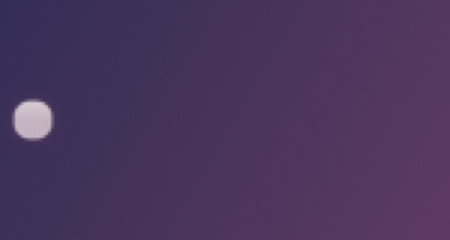
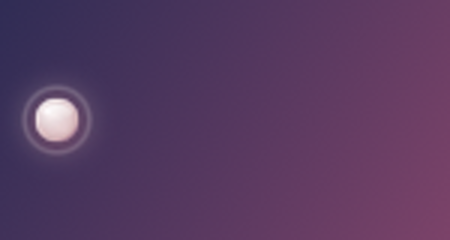
README shows the pearl, ripple and all

Changed region(s): [[0.7778, 0.3208, 1.0, 1.0], [0.0, 0.35, 0.2178, 0.6708]]

diff --git a/README.md b/README.md
@@ -13,7 +13,7 @@ it works everywhere and it doesn't send your voice anywhere. The
 listening and the typing both happen on your own Mac.
 
 <p align="center">
-  <img src="screenshots/recording-dot.png" width="300" alt="The pink glass dot that shows on the left edge of the screen while you're talking">
+  <img src="screenshots/recording-dot.png" width="300" alt="The glass pearl that pulses on the left edge of the screen while you're talking">
 </p>
 
 <p align="center">
@@ -29,7 +29,7 @@ listening and the typing both happen on your own Mac.
 | 🎙 **Hold to talk** | Hold your key (Right Option to start with, and you can change it), talk, let go. |
 | ✍ **Types it for you** | Pastes the words where your cursor is, and keeps a copy on the clipboard too. |
 | 🔒 **Stays on your Mac** | No accounts, no cloud, no subscription. Your voice never leaves the computer. |
-| 👀 **Shows it's listening** | A small pink glass dot on the left edge of the screen pulses while it's recording, so you're never guessing. |
+| 👀 **Shows it's listening** | A little glass pearl on the left edge of the screen breathes and sends out soft ripples while it's recording, so you're never guessing. |
 | 🕘 **Remembers the last 5** | Click the rose dot in the menu bar to copy any of your last 5 recordings again. |
 | ⬇ **Sets itself up** | Downloads the speech model the first time it opens. |
 | 🚀 **Opens with your Mac** | If you want it to. |
